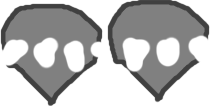
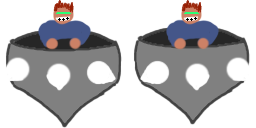
Fuck, 64x64 is so damn tiny..

diff --git a/src/engines/Sprite.js b/src/engines/Sprite.js
@@ -19,7 +19,7 @@ export default class {
     // Optimisation, push them all through Pixi.loader, like item assets did. Not sure how worthwhile it is in reality
     // Init - show first frame
     this.sprite = new Pixi.Sprite(this.poses[0].frames[0].texture);
-    this.sprite.scale = { x: 0.25, y: 0.25 };
+    this.sprite.scale = { x: 0.2, y: 0.2 };
     // I should have done this from the start,
     // maybe avoiding having to offset sprites at all:
     this.sprite.anchor = { x: 0.5, y: 0.5 };

diff --git a/src/entities/Hero.js b/src/entities/Hero.js
@@ -40,14 +40,14 @@ export default class {
               {
                 x: 0,
                 y: 0,
-                width: 106,
-                height: 106
+                width: 128,
+                height: 128
               },
               {
-                x: 106,
+                x: 128,
                 y: 0,
-                width: 106,
-                height: 106
+                width: 128,
+                height: 128
               }
             ]
           }
